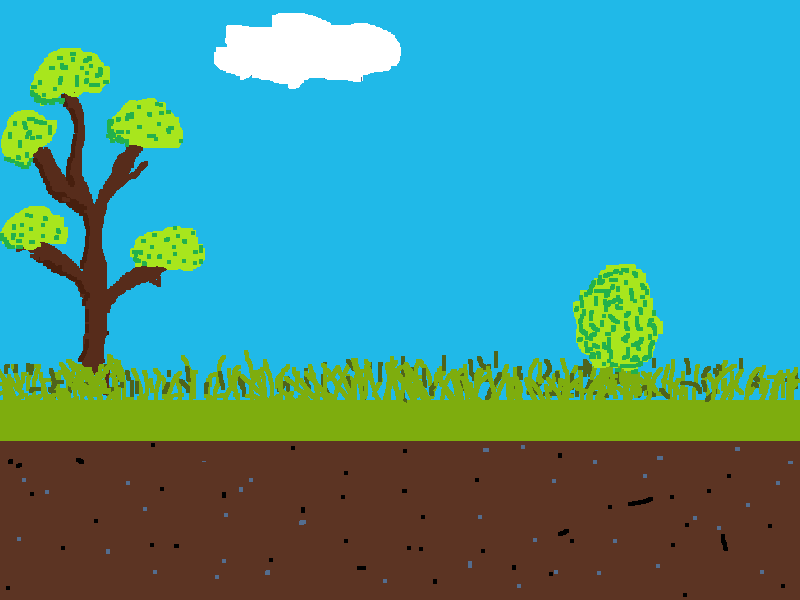
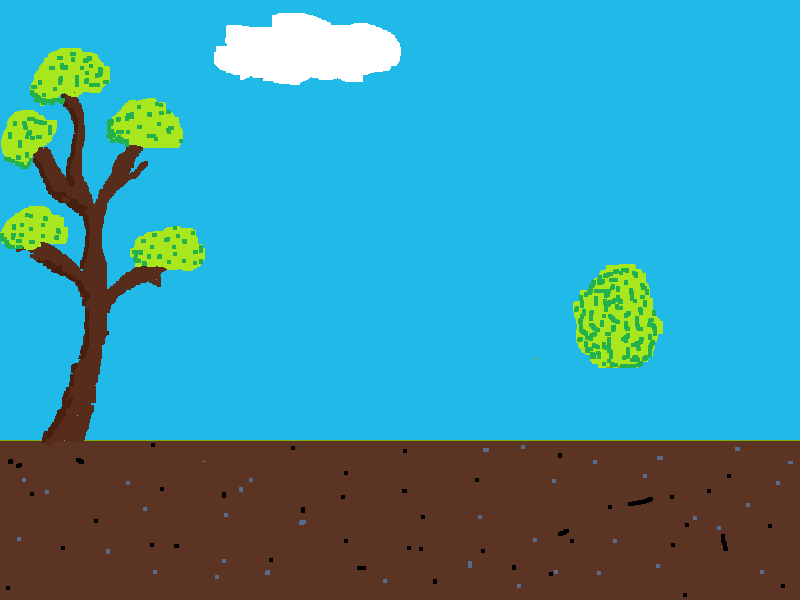
moving and animate

Changed region(s): [[0.0, 0.57, 1.0, 0.75]]

diff --git a/characters.py b/characters.py
@@ -14,6 +14,9 @@ class Sprite:
         self.image = pygame.transform.scale(self.image, (self.size, self.size))
         self.frame = 0
 
+        self.dead_images = ['smash_duck.png', 'dead_duck.png']
+        self.smash_time = 10
+
         self.direction = random.choice(['left', 'right'])
         if self.direction == 'right':
             self.vx = random.randint(5, 15)
@@ -22,11 +25,23 @@ class Sprite:
         self.vy = random.randint(5, 15)
         self.canGoAway = False
 
+        self.alive = True
+
     def draw(self, wnd):
         if self.direction == 'left':
             self.image = pygame.transform.flip(self.image, 1, 0)
         if self.direction == 'right':
             self.image = pygame.transform.flip(self.image, 0, 0)
+
+        if not self.alive:
+            if self.smash_time != 0:
+                self.image = pygame.image.load(self.dead_images[0])
+                self.image = pygame.transform.scale(self.image, (self.size, self.size))
+                self.smash_time -= 1
+            else:
+                self.image = pygame.image.load(self.dead_images[1])
+                self.image = pygame.transform.scale(self.image, (self.size, self.size))
+                self.vy = 20
         wnd.blit(self.image, (self.hitbox.x, self.hitbox.y))
 
     def move(self):
@@ -48,8 +63,8 @@ class Sprite:
                 self.hitbox.y = 0
                 self.canGoAway = True
                 self.vy *= -1
-        elif self.hitbox.y > 400 - self.size:
-            self.hitbox.y = 400 - self.size
+        elif self.hitbox.y > 450 - self.size:
+            self.hitbox.y = 450 - self.size
             self.vy *= -1
 
     def animate(self):
@@ -64,3 +79,19 @@ class Sprite:
         self.image = pygame.image.load(self.frames[self.frame])
         self.image = pygame.transform.scale(self.image, (self.size, self.size))
 
+    def kill(self):
+        self.alive = False
+        self.vx = 0
+        self.vy = 0
+
+
+class Gun:
+    def __init__(self):
+        self.ammo = 3
+        self.reloading = False
+        self.reload_time = 3
+
+    def shot(self, x, y, ducks):
+        for duck in ducks:
+            if duck.hitbox.collidepoint(x, y):
+                duck.kill()

diff --git a/main.py b/main.py
@@ -8,21 +8,25 @@ width = 800
 height = 600
 window = pygame.display.set_mode((width, height))
 bg_image = pygame.image.load('bg-image.png')
+grass_image = pygame.image.load('grass.png')
 
 ducks_amount = random.randint(1, 3)
 ducks = []
-print(ducks_amount)
 while ducks_amount > 0:
     ducks.append(Sprite(random.randint(0, width-100), height/2, ['duck1.png', 'duck0.png', 'duck2.png', 'duck3.png']))
     ducks_amount -= 1
 
 clock = pygame.time.Clock()
+gun = Gun()
 
 running = True
 while running:
     for event in pygame.event.get():
         if event.type == pygame.QUIT:
             running = False
+        if event.type == pygame.MOUSEBUTTONDOWN and event.button == 1:
+            x, y = pygame.mouse.get_pos()
+            gun.shot(x, y, ducks)
 
     pygame.mouse.set_cursor(pygame.SYSTEM_CURSOR_CROSSHAIR)
 
@@ -32,6 +36,7 @@ while running:
         d.move()
         d.animate()
         d.draw(window)
+    window.blit(grass_image, (0, 110))
     pygame.display.update()
     clock.tick(10)
 pygame.quit()
